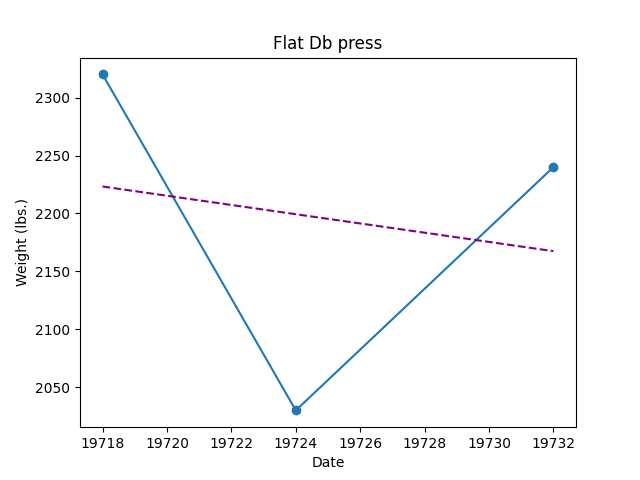
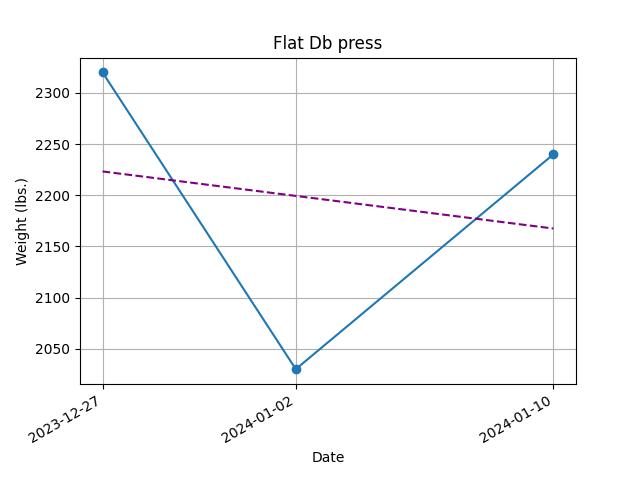
only show x lables with data

diff --git a/main.py b/main.py
@@ -96,6 +96,9 @@ def latestLiftDataReport(rawData):
 def plot_lifts(master):
     for key in master.keys():
         dates = master[key]['Date'].values
+        # print (dates)
+        # print (len(dates))
+
         dateArray = [dateutil.parser.parse(x) for x in dates]
         x = mdates.date2num(dateArray)
         vols = master[key]['Vol'].values
@@ -104,6 +107,16 @@ def plot_lifts(master):
         plt.title(key)
         plt.ylabel('Weight (lbs.)')
         plt.xlabel('Date')
+        plt.grid()
+        plt.autoscale()
+
+        # Show X-axis major tick marks as dates
+        loc = mdates.AutoDateLocator()
+        plt.gca().xaxis.set_major_locator(loc)
+        plt.gca().xaxis.set_major_formatter(mdates.AutoDateFormatter(loc))
+        plt.gcf().autofmt_xdate()
+        plt.xticks(x)
+
 
         z = np.polyfit(x, vols, 1)
         p = np.poly1d(z)
